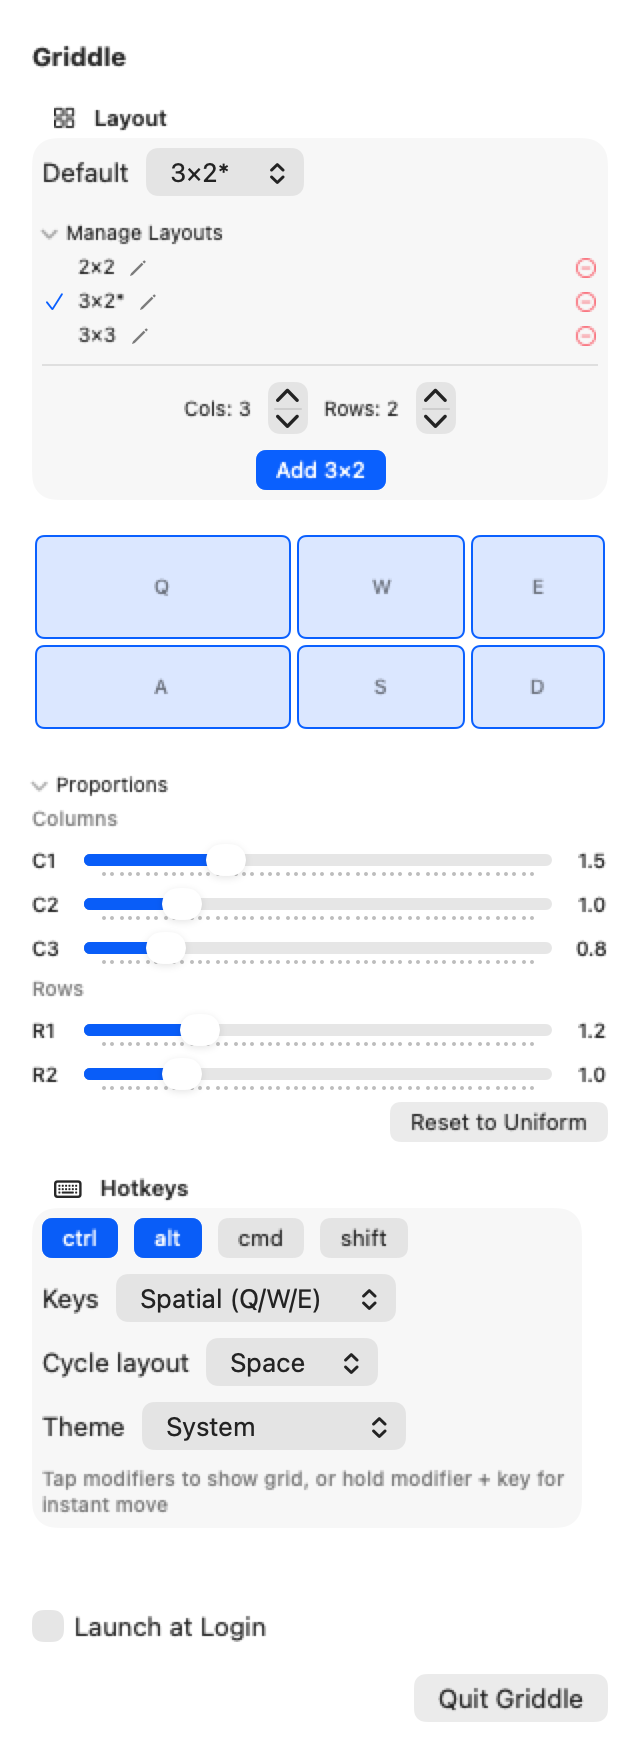
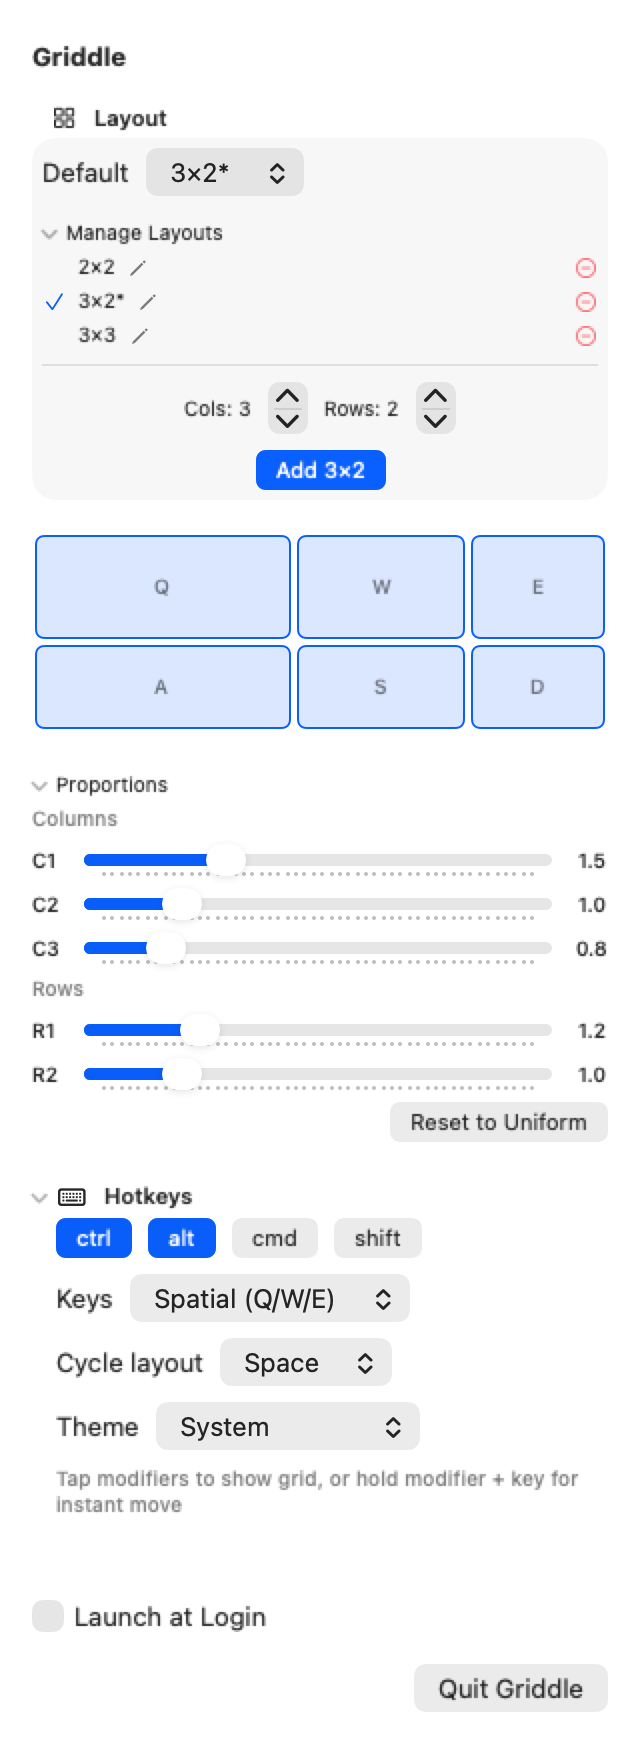
Make Hotkeys section collapsible in Settings popover
Wrap the Hotkeys section in a DisclosureGroup defaulting to closed —
modifier toggles, key style, cycle layout, and theme are configured
once and rarely revisited, so the popover now opens at a much shorter
height. Demo passes hotkeysExpanded: true so the documentation
screenshot still shows all controls.

diff --git a/Sources/GriddleLib/SettingsView.swift b/Sources/GriddleLib/SettingsView.swift
@@ -7,12 +7,14 @@ public struct SettingsView: View {
     var screens: [ScreenInfo]
 
     public init(configStore: ConfigStore, hotkeyManager: HotkeyManager, screens: [ScreenInfo],
-                manageLayoutsExpanded: Bool = false, proportionsExpanded: Bool = false) {
+                manageLayoutsExpanded: Bool = false, proportionsExpanded: Bool = false,
+                hotkeysExpanded: Bool = false) {
         self.configStore = configStore
         self.hotkeyManager = hotkeyManager
         self.screens = screens
         self._manageLayoutsExpanded = State(initialValue: manageLayoutsExpanded)
         self._proportionsExpanded = State(initialValue: proportionsExpanded)
+        self._hotkeysExpanded = State(initialValue: hotkeysExpanded)
     }
 
     @State private var newCols = 3
@@ -22,6 +24,7 @@ public struct SettingsView: View {
     @State private var editingName: String = ""
     @State private var manageLayoutsExpanded: Bool
     @State private var proportionsExpanded: Bool
+    @State private var hotkeysExpanded: Bool
 
     public var body: some View {
             VStack(alignment: .leading, spacing: 16) {
@@ -223,7 +226,7 @@ public struct SettingsView: View {
                 }
 
                 // MARK: - Hotkeys Section
-                GroupBox(label: Label("Hotkeys", systemImage: "keyboard").font(.subheadline.bold())) {
+                DisclosureGroup(isExpanded: $hotkeysExpanded) {
                     VStack(alignment: .leading, spacing: 8) {
                         HStack {
                             ForEach(["ctrl", "alt", "cmd", "shift"], id: \.self) { key in
@@ -293,6 +296,8 @@ public struct SettingsView: View {
                             .font(.caption2)
                             .foregroundColor(.secondary)
                     }
+                } label: {
+                    Label("Hotkeys", systemImage: "keyboard").font(.subheadline.bold())
                 }
 
                 // MARK: - Footer

diff --git a/Sources/GriddleDemo/DemoController.swift b/Sources/GriddleDemo/DemoController.swift
@@ -201,7 +201,8 @@ class DemoController {
             hotkeyManager: hotkeyManager,
             screens: displaySystem.screens,
             manageLayoutsExpanded: true,
-            proportionsExpanded: true
+            proportionsExpanded: true,
+            hotkeysExpanded: true
         )
         let hostingView = NSHostingView(rootView: settingsView)
 
